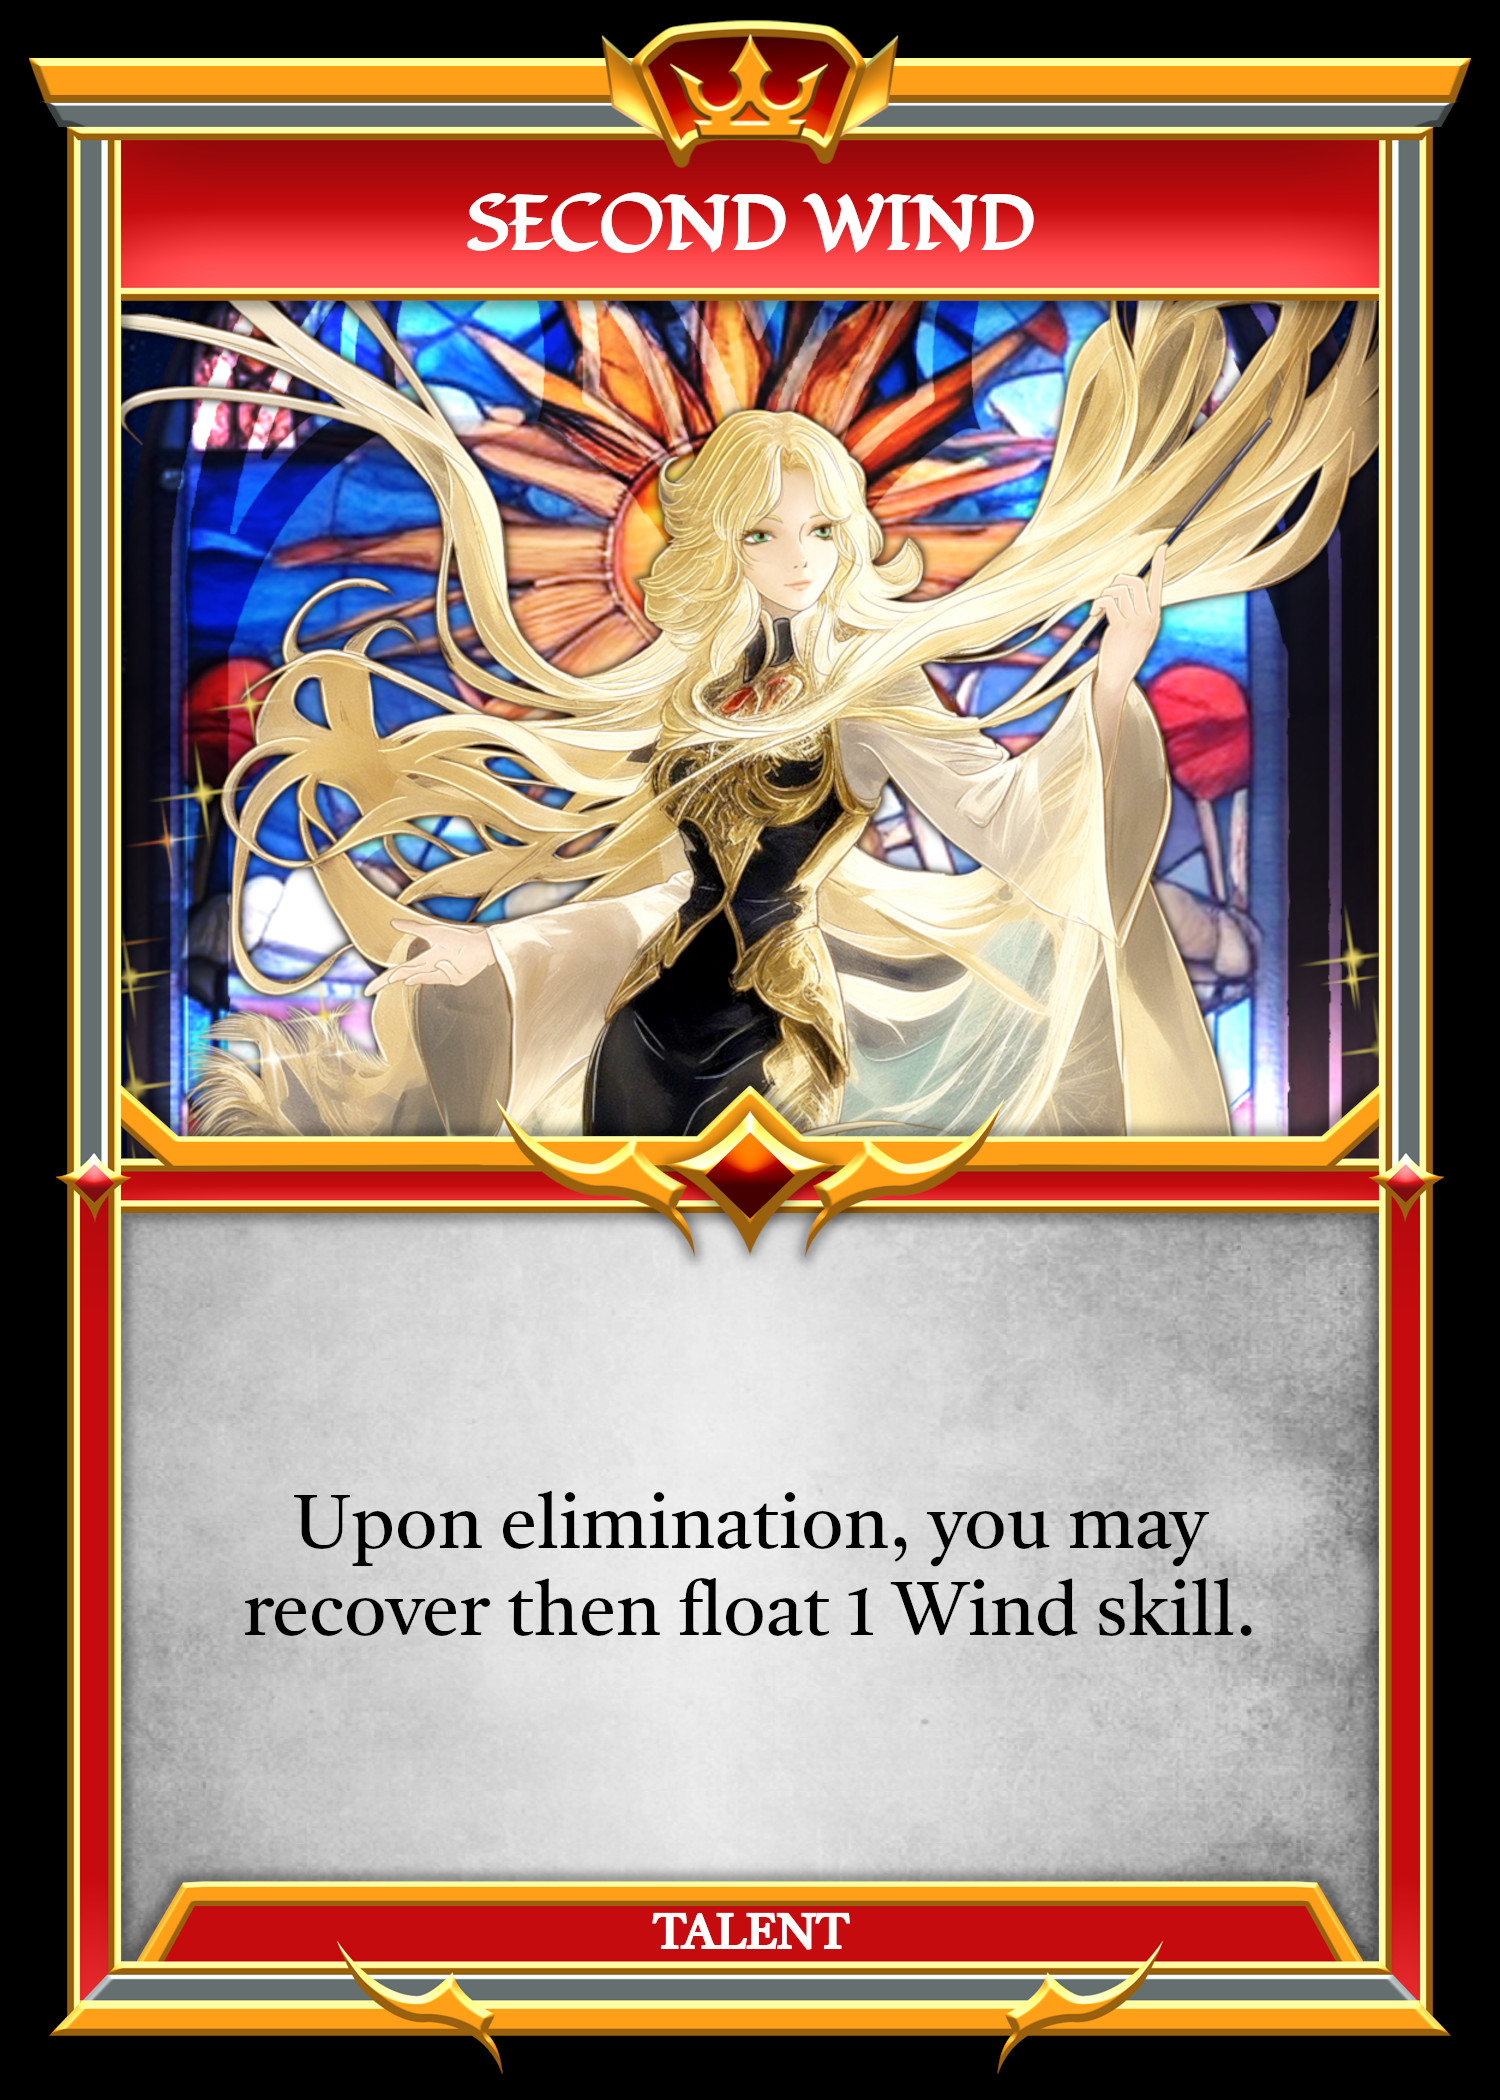
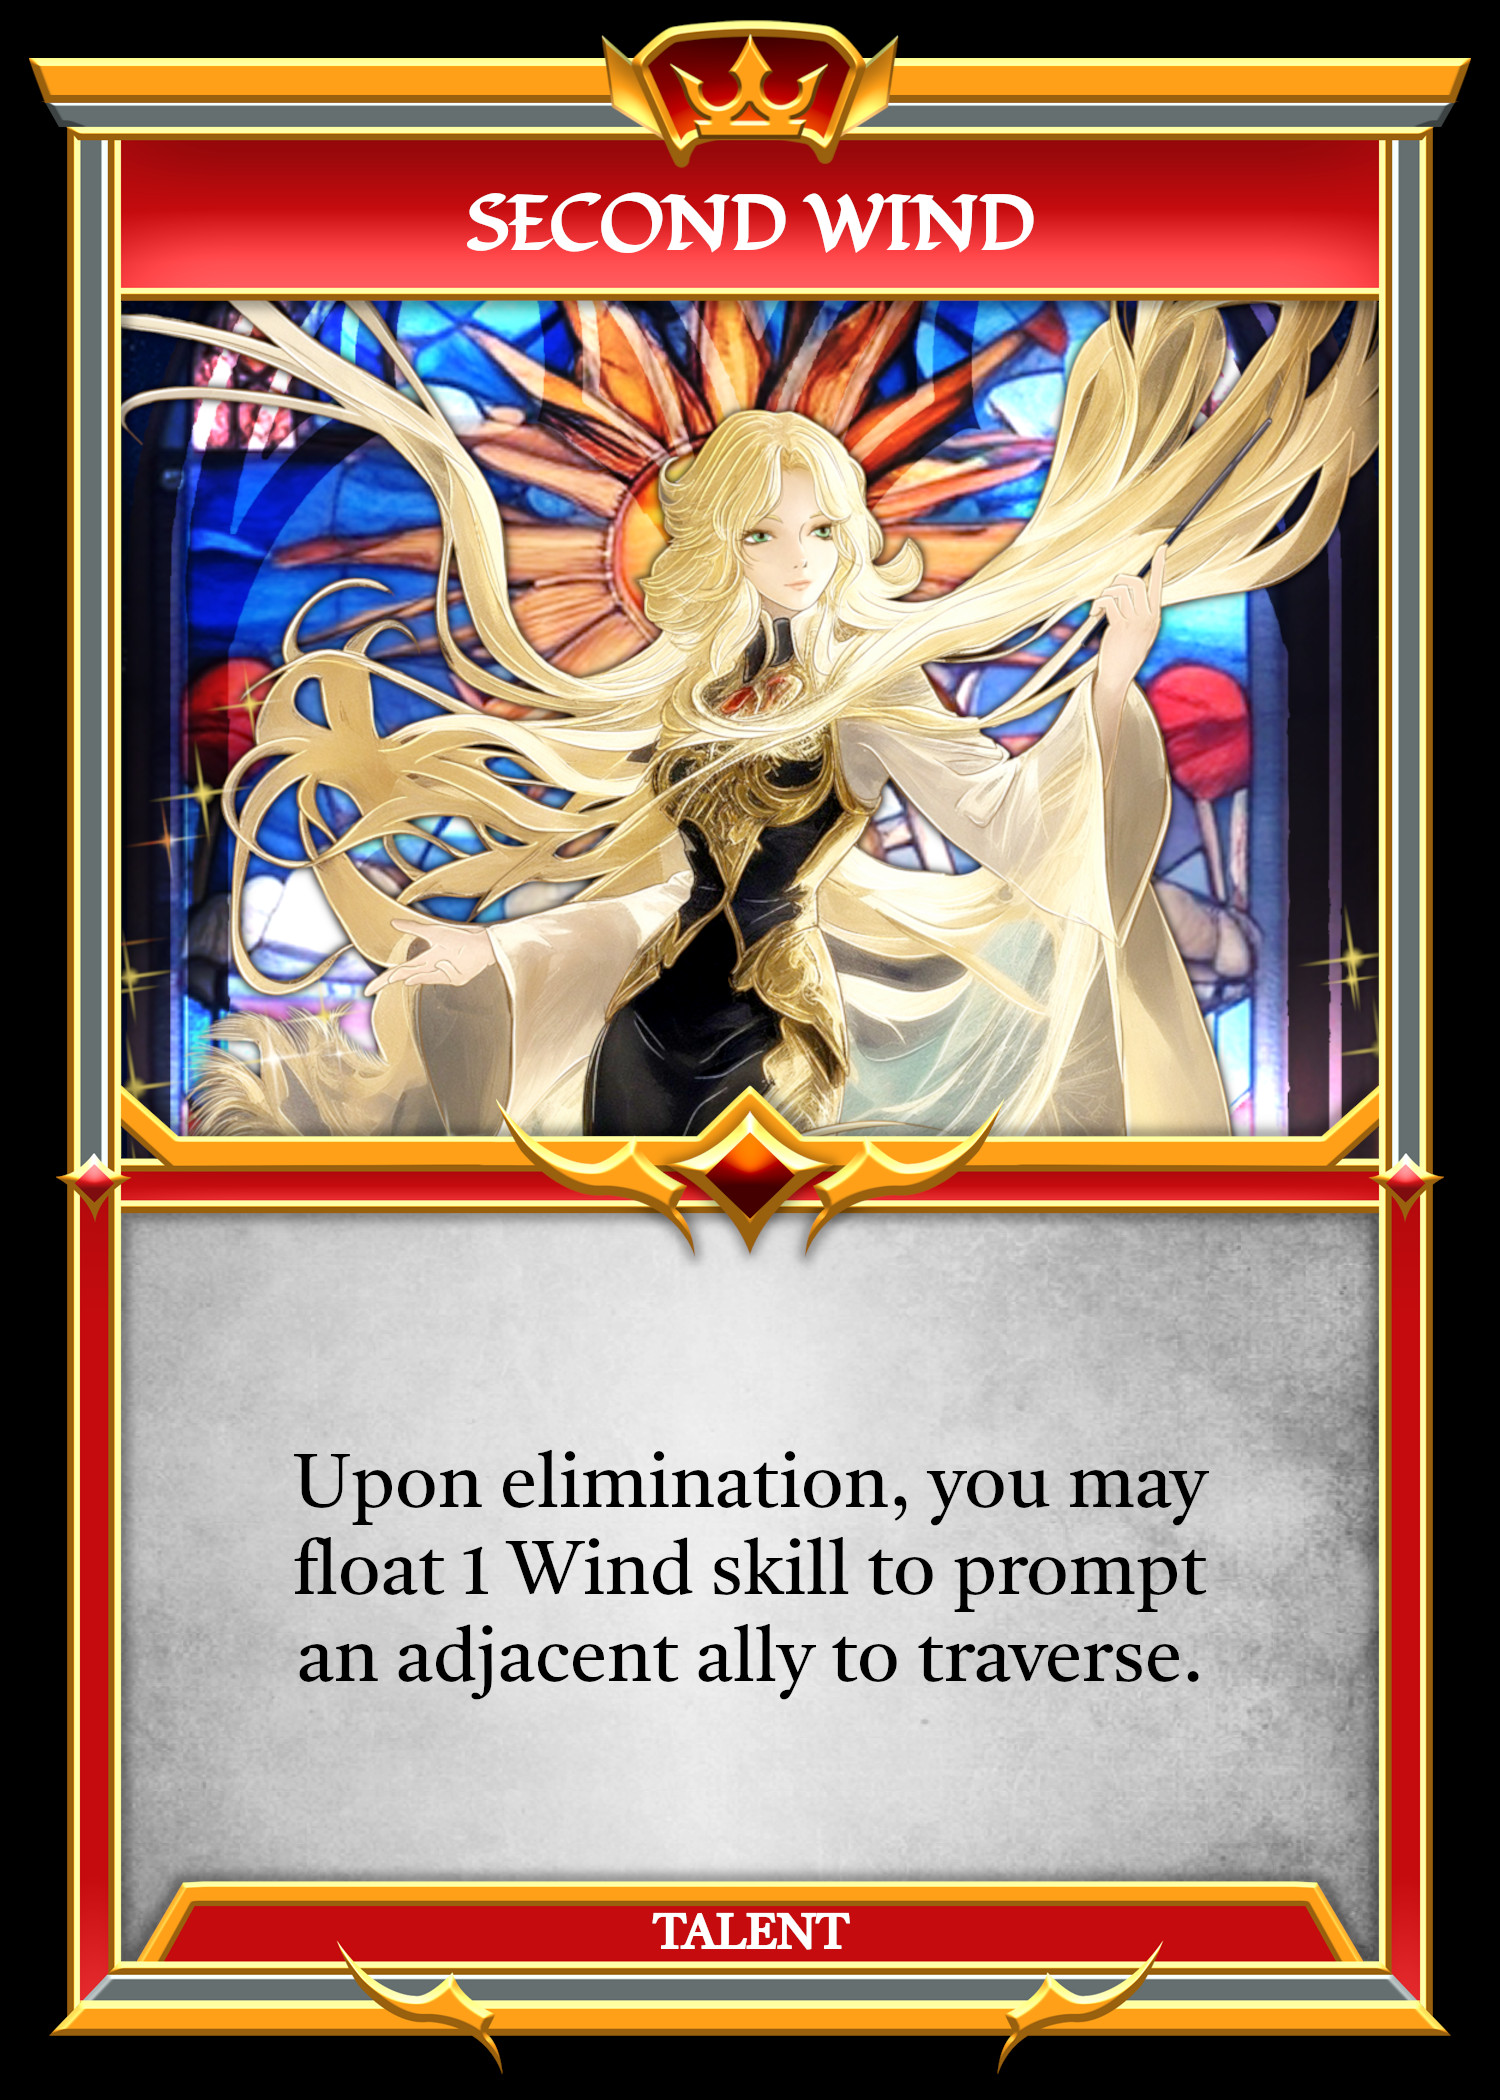
reworked Second Wind. Fixed movement bug lol

Changed region(s): [[0.1533, 0.681, 0.828, 0.8048]]

diff --git a/src/hooks/useUnitAbilityEffects.jsx b/src/hooks/useUnitAbilityEffects.jsx
@@ -10,10 +10,10 @@ export const useUnitAbilityEffects = () => {
 
   const {
     animationDelay,
-
     canMove,
     canStrike,
     enterSelectUnitMode,
+    getZonesAerialImpetusAlly,
     getZonesWithAllies,
     getZonesWithEnemies,
     isMuted,
@@ -302,38 +302,50 @@ export const useUnitAbilityEffects = () => {
     return newGameState;
   };
 
-  const secondWind1 = () => {
+  const secondWind1 = (unitInfo) => {
     let newGameState = JSON.parse(JSON.stringify(localGameState));
+    // Unit is dead; do not update info
+    // let unit = newGameState[unitInfo.player].units[unitInfo.unitIndex];
 
     //end "Activating Second Wind" resolution
     newGameState.currentResolution.pop();
 
-    if (
-      !["03-01", "03-02", "03-03", "03-04"].some((s) =>
-        newGameState[self].skillVestige.includes(s)
-      )
-    ) {
+    const allies = getZonesAerialImpetusAlly(unitInfo);
+
+    if (allies.length > 0) {
       newGameState.currentResolution.push({
-        resolution: "Misc.",
-        resolution2: "Message To Player",
+        resolution: "Unit Talent",
+        resolution2: "Second Wind1",
         player: self,
-        title: "Second Wind",
-        message: "You do not have any Wind skills to recover.",
-      });
-    } else {
-      newGameState.currentResolution.push({
-        resolution: "Recover Skill",
-        player: self,
-        canSkip: true,
+        unit: null,
         details: {
           title: "Second Wind",
-          reason: "Second Wind",
+          message:
+            "You may float 1 Wind skill to prompt an adjacent ally to traverse.",
           restriction: ["03-01", "03-02", "03-03", "03-04"],
-          message: "You may recover then float 1 Wind skill.",
-          outcome: "Float",
+          reason: "Second Wind",
+          allies: allies,
         },
       });
     }
+
+    return newGameState;
+  };
+
+  const secondWind2 = (allies) => {
+    let newGameState = JSON.parse(JSON.stringify(localGameState));
+
+    //end "Second Wind Select Ally" resolution
+    newGameState.currentResolution.pop();
+
+    enterSelectUnitMode(
+      allies,
+      null,
+      newGameState,
+      null,
+      "second wind prompt",
+      null
+    );
 
     return newGameState;
   };
@@ -890,7 +902,9 @@ export const useUnitAbilityEffects = () => {
       case "reapTheWhirlwind1":
         return reapTheWhirlwind1(unit);
       case "secondWind1":
-        return secondWind1();
+        return secondWind1(unit);
+      case "secondWind2":
+        return secondWind2(unit);
 
       //Land
       case "saltTheEarth1":

diff --git a/src/hooks/UseCurrentResolution.jsx b/src/hooks/UseCurrentResolution.jsx
@@ -860,7 +860,7 @@ const UseCurrentResolution = (props) => {
           );
 
         case "Moving Unit":
-          if (self === localGameState.turnPlayer && props.tileMode !== "move") {
+          if (self === lastRes.mover && props.tileMode !== "move") {
             props.setTileMode("move");
             props.setValidZones(lastRes.zoneIds);
             props.setMovingUnit(lastRes.unit);
@@ -1537,7 +1537,32 @@ const UseCurrentResolution = (props) => {
 
         case "Activating Second Wind":
           if (self === lastRes.unit.player) {
-            props.updateLocalState(applyAbility("secondWind1"));
+            props.updateLocalState(applyAbility("secondWind1", lastRes.unit));
+          }
+          break;
+
+        case "Second Wind1":
+          return (
+            <>
+              {self === lastRes.player && !props.hideModal && (
+                <FloatSkill
+                  details={lastRes.details}
+                  updateFirebase={props.updateFirebase}
+                  hideOrRevealModale={props.hideOrRevealModale}
+                />
+              )}
+            </>
+          );
+
+        case "Second Wind Select Ally":
+          if (self === lastRes.player) {
+            props.updateLocalState(applyAbility("secondWind2", lastRes.allies));
+          }
+          break;
+
+        case "Second Wind Prompt":
+          if (self === lastRes.unit.player) {
+            selectAndMoveUnit(lastRes.unit);
           }
           break;
 

diff --git a/src/components/boardComponents/Board.jsx b/src/components/boardComponents/Board.jsx
@@ -209,11 +209,18 @@ const Board = (props) => {
         if (isAdjacent(unit, galeConjurationEnemy)) {
           galeConjurationEnemy.aether = 0;
         }
-
         break;
 
       case "gale conjuration restore":
         newGameState = aetherRestoreSpecial(newGameState, selectedUnit);
+        break;
+
+      case "second wind prompt":
+        newGameState.currentResolution.push({
+          resolution: "Unit Talent",
+          resolution2: "Second Wind Prompt",
+          unit: selectedUnit,
+        });
         break;
 
       case "symphonic screech":

diff --git a/src/components/modals/UnitInfo.jsx b/src/components/modals/UnitInfo.jsx
@@ -299,7 +299,8 @@ const UnitInfo = (props) => {
           <>
             <p className="unitInfo-text-heading2">1. Second Wind</p>
             <p className="unitInfo-text-desc unitInfo-text-last">
-              ⬩Upon elimination, you may recover then float 1 Wind skill.
+              ⬩Upon elimination, you may float 1 Wind skill to prompt an
+              adjacent ally to traverse.
             </p>
 
             <p className="unitInfo-text-heading2">2. Aeromancy</p>

diff --git a/src/components/modals/FloatSkill.jsx b/src/components/modals/FloatSkill.jsx
@@ -89,6 +89,15 @@ const FloatSkill = (props) => {
         });
         break;
 
+      case "Second Wind":
+        newGameState.currentResolution.push({
+          resolution: "Unit Talent",
+          resolution2: "Second Wind Select Ally",
+          player: self,
+          allies: props.details.allies,
+        });
+        break;
+
       case "Fortify":
         newGameState.currentResolution.push({
           resolution: "Unit Ability",

diff --git a/src/hooks/useSovereignSkillEffects.jsx b/src/hooks/useSovereignSkillEffects.jsx
@@ -663,6 +663,8 @@ export const useSovereignSkillEffects = () => {
     // end "Match Made in Heaven2"
     newGameState.currentResolution.pop();
 
+    //Allow it to work even if hand it empty at the moment,
+    //as them being adjacent would draw the skill needed
     if (newGameState[self].skillHand.length > 0 || isAdjacent(unit1, unit2)) {
       newGameState.currentResolution.push({
         resolution: "Sovereign Contingent Skill",

diff --git a/src/hooks/useRecurringEffects.jsx b/src/hooks/useRecurringEffects.jsx
@@ -2666,6 +2666,7 @@ export const useRecurringEffects = () => {
       unit: unit,
       tactic: tactic,
       canCancel: canCancel,
+      mover: self,
     });
 
     return newGameState;
